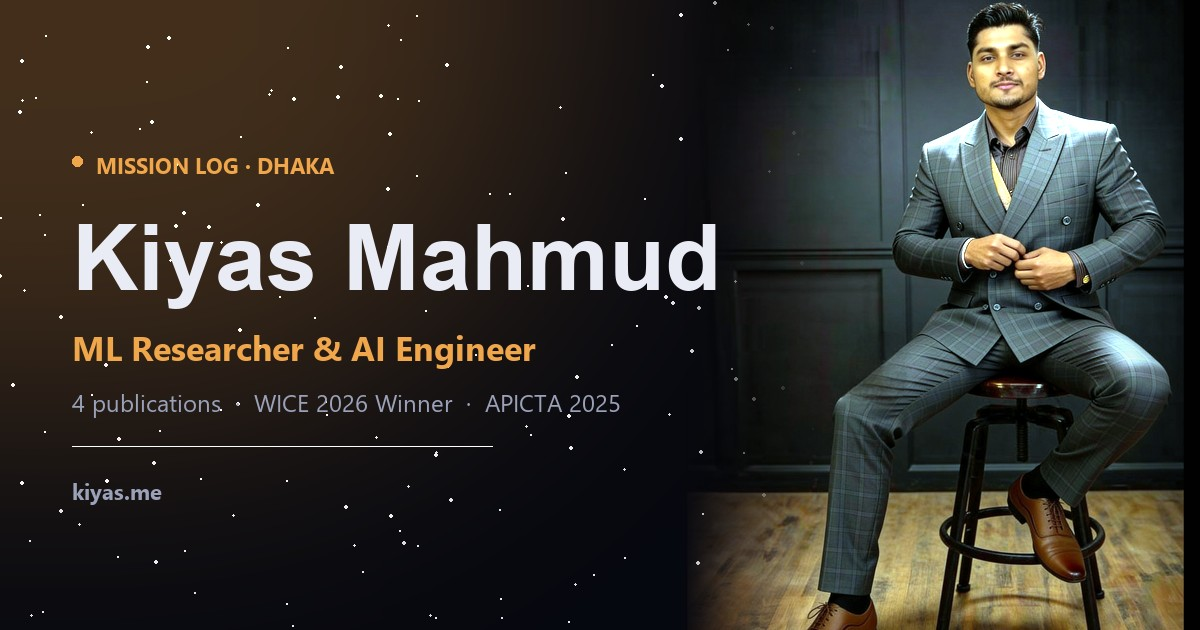
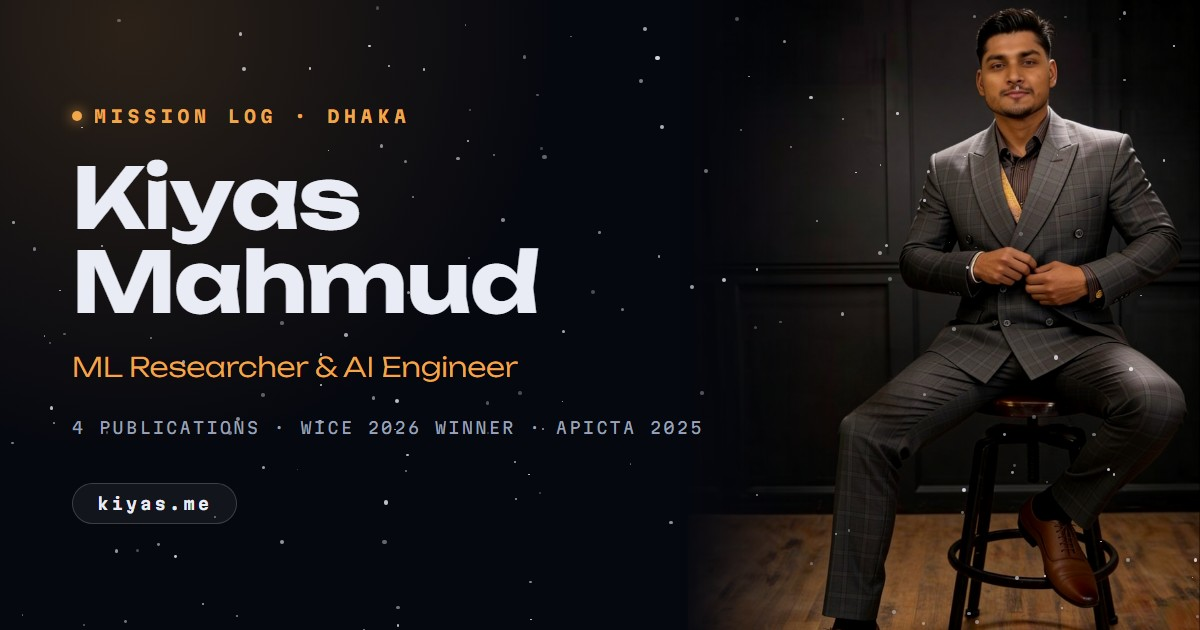
Regenerate OG card in the actual v3 design system
Previous card was composited in Pillow with system fonts (Arial and
Segoe), which read as an older design next to the live site. Re-render
it in a real browser using the site's own tokens: Unbounded display
type, Martian Mono telemetry, amber accent, starfield, and glass pill,
with the portrait feathered on the right. Bump og:image URL to ?v=2 so
WhatsApp and friends re-fetch instead of serving their cached preview.

diff --git a/index.html b/index.html
@@ -15,13 +15,13 @@
     <meta property="og:url" content="https://kiyas.me/" />
     <meta property="og:title" content="Kiyas Mahmud · ML Researcher &amp; AI Engineer" />
     <meta property="og:description" content="Kiyas Mahmud builds intelligent systems: award-winning fraud detection, AI-powered SaaS, and peer-reviewed research across four IEEE venues." />
-    <meta property="og:image" content="https://kiyas.me/images/og/kiyas-mahmud.jpg" />
+    <meta property="og:image" content="https://kiyas.me/images/og/kiyas-mahmud.jpg?v=2" />
     <meta property="og:image:width" content="1200" />
     <meta property="og:image:height" content="630" />
     <meta name="twitter:card" content="summary_large_image" />
     <meta name="twitter:title" content="Kiyas Mahmud · ML Researcher &amp; AI Engineer" />
     <meta name="twitter:description" content="Kiyas Mahmud builds intelligent systems: award-winning fraud detection, AI-powered SaaS, and peer-reviewed research across four IEEE venues." />
-    <meta name="twitter:image" content="https://kiyas.me/images/og/kiyas-mahmud.jpg" />
+    <meta name="twitter:image" content="https://kiyas.me/images/og/kiyas-mahmud.jpg?v=2" />
 
     <link
       rel="icon"
